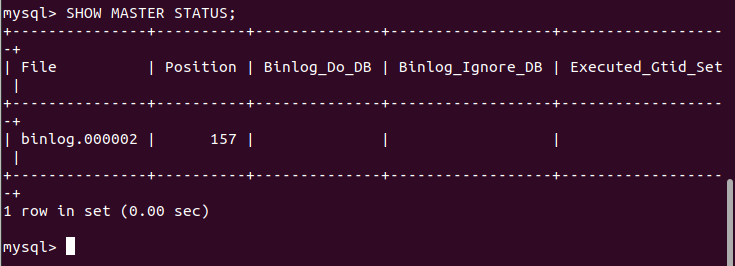
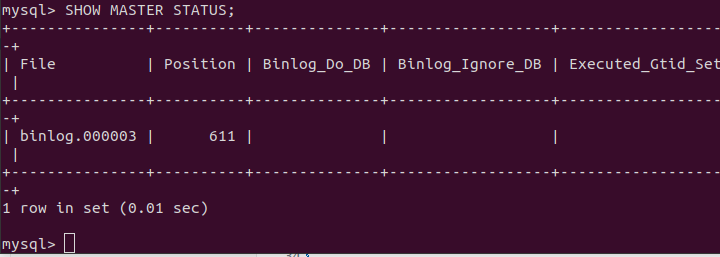
3

diff --git a/README.md b/README.md
@@ -24,9 +24,38 @@
 docker exec -it mysql-master mysql -u root -proot_password
 ```
 ![3](https://github.com/Foxbeerxxx/rep1/blob/main/img/img3.png)`
+5. `И запрос показать статус`
+```
+SHOW MASTER STATUS;
+```
+![4](https://github.com/Foxbeerxxx/rep1/blob/main/img/img4.png)`
 
-5. `Заполните здесь этапы выполнения, если требуется ....`
-6. 
+6. `Теперь настраиваем Slave, подключаемся к нему`
+```
+docker exec -it mysql-slave mysql -u root -proot_password
+```
+7. `И отправляем запрос`
+```
+CHANGE MASTER TO
+    MASTER_HOST='mysql-master',  
+    MASTER_USER='repl_user',
+    MASTER_PASSWORD='repl_password',
+    MASTER_LOG_FILE='binlog.000003', 
+    MASTER_LOG_POS=611;             
+
+START SLAVE;
+
+```
+
+![](https://github.com/Foxbeerxxx/rep1/blob/main/img/img5.png)`
+
+
+
+
+
+8. `Теперь настраиваем Slave, подключаемся к нему`
+9. `Теперь настраиваем Slave, подключаемся к нему`
+
 
 ```
 Поле для вставки кода...
